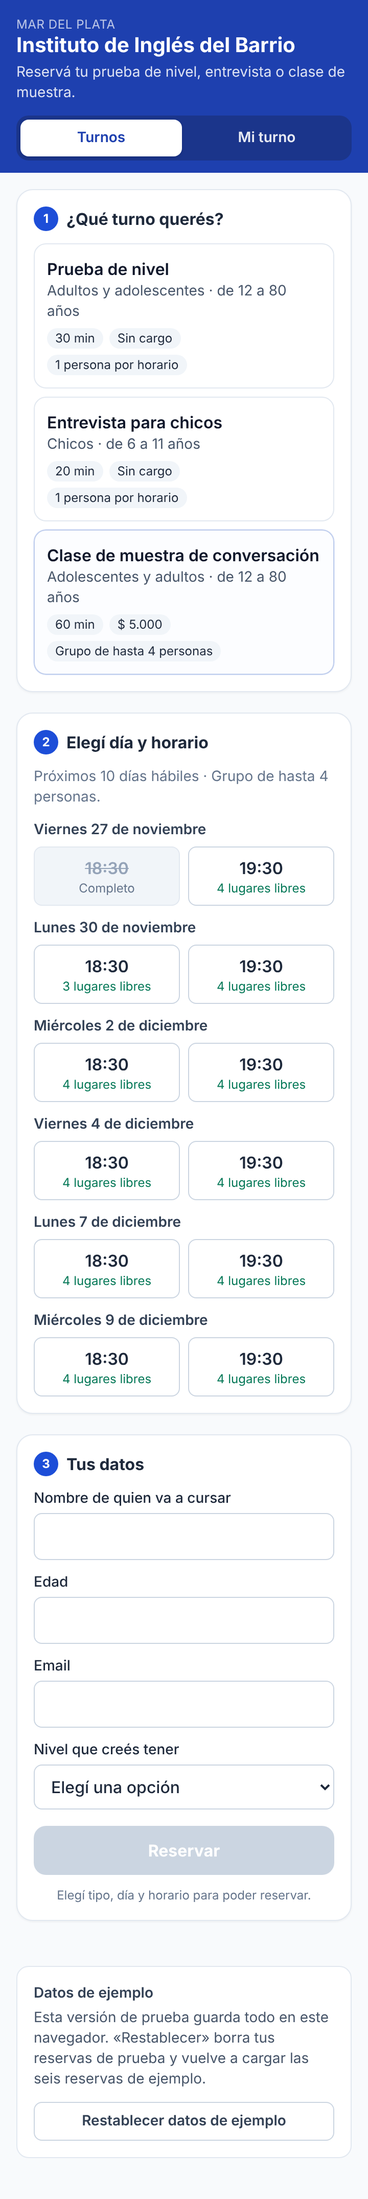
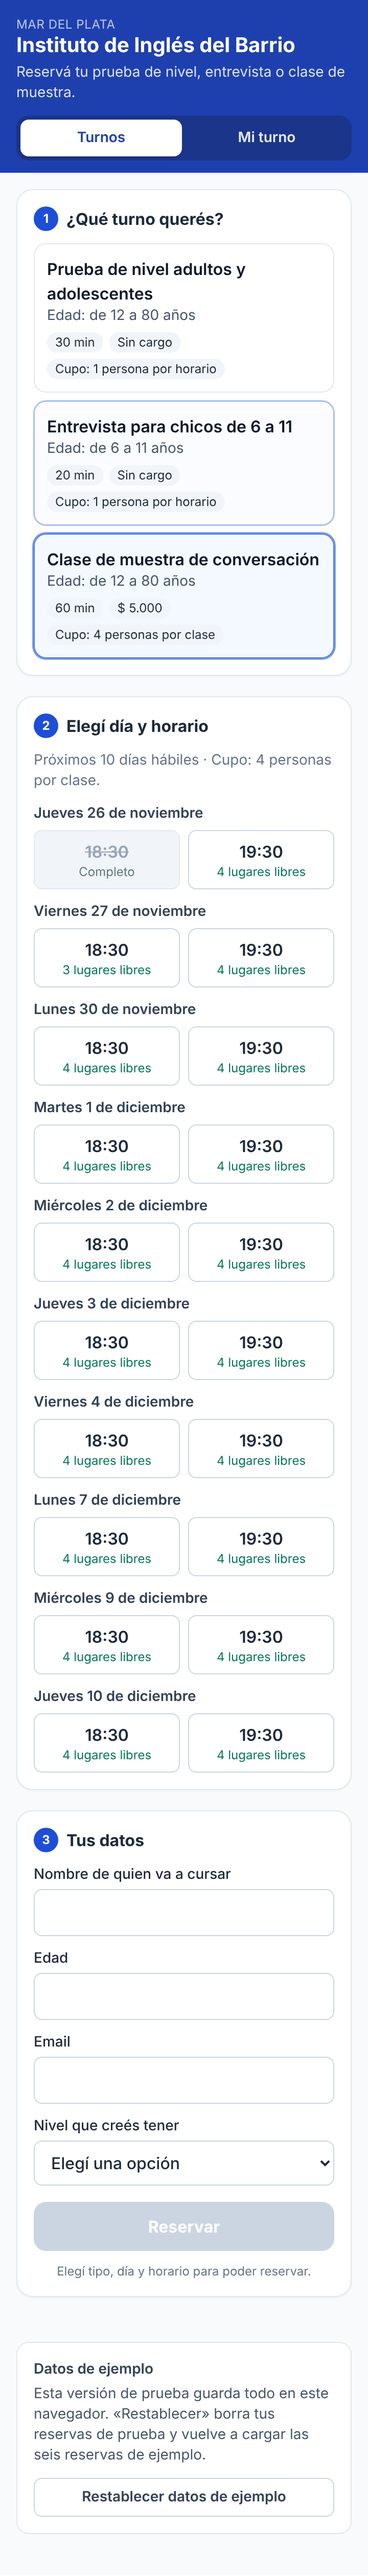
Ajustes al brief: nombres exactos de los tipos, 10 días para todos, datos completos en la clave propia
- Tipos con el nombre exacto del brief y cupo visible en cada tarjeta
- La clase de muestra tiene franjas los 10 días hábiles
- Etiqueta «1 lugar libre» también para prueba de nivel y entrevista
- La clave propia guarda tipos, franjas y reservas
- README: prueba guiada actualizada (43/43) y tabla de criterios de aceptación

Claude-Session: https://claude.ai/code/session_014txXNc892jqkesCsr7BeZq

diff --git a/src/lib/almacenamiento.js b/src/lib/almacenamiento.js
@@ -3,6 +3,7 @@
 // (no se usa localStorage.clear()).
 import { STORAGE_KEY, RESERVAS_EJEMPLO, TIPOS, INSTITUTO, DIAS_HABILES_A_MOSTRAR, FERIADOS } from '../data/config.js'
 import { hoyEnZona, proximosDiasHabiles, diaSemana } from './fechas.js'
+import { franjasDelTipo } from './disponibilidad.js'
 
 const VERSION = 1
 
@@ -16,6 +17,20 @@ export function puedeGuardar() {
   } catch {
     return false
   }
+}
+
+// Foto de los tipos y de las franjas de los próximos 10 días hábiles con sus
+// lugares libres. Se guarda junto con las reservas para que todo el juego de
+// datos se vea en localStorage. La fuente de verdad de tipos y horarios sigue
+// siendo src/data/config.js: esta foto se recalcula cada vez que se abre la app.
+export function fotoCatalogo(reservas, ahora = new Date()) {
+  const hoy = hoyEnZona(INSTITUTO.zonaHoraria, ahora)
+  const franjas = TIPOS.flatMap((tipo) =>
+    franjasDelTipo(tipo, reservas, { hoy, cantidadDias: DIAS_HABILES_A_MOSTRAR, feriados: FERIADOS }).flatMap((d) =>
+      d.franjas.map((f) => ({ tipoId: tipo.id, fecha: f.fecha, hora: f.hora, capacidad: f.capacidad, libres: f.libres })),
+    ),
+  )
+  return { tipos: TIPOS, franjas }
 }
 
 // Convierte las reservas de ejemplo (con `dia` relativo) en reservas con fecha real.
@@ -34,7 +49,7 @@ export function construirEjemplo(ahora = new Date()) {
       ejemplo: true,
     }
   })
-  return { version: VERSION, reservas, cargadoEn: ahora.toISOString() }
+  return { version: VERSION, ...fotoCatalogo(reservas, ahora), reservas, cargadoEn: ahora.toISOString() }
 }
 
 // Lee los datos. Si no hay nada (primera vez) o están rotos, carga el ejemplo.
@@ -43,7 +58,11 @@ export function cargar() {
     const crudo = window.localStorage.getItem(STORAGE_KEY)
     if (crudo) {
       const datos = JSON.parse(crudo)
-      if (datos && datos.version === VERSION && Array.isArray(datos.reservas)) return datos
+      if (datos && datos.version === VERSION && Array.isArray(datos.reservas)) {
+        const actualizados = { ...datos, ...fotoCatalogo(datos.reservas) }
+        guardar(actualizados)
+        return actualizados
+      }
     }
   } catch {
     // sin acceso o JSON roto: seguimos con el ejemplo
@@ -56,7 +75,7 @@ export function cargar() {
 // Devuelve true si se pudo guardar.
 export function guardar(datos) {
   try {
-    window.localStorage.setItem(STORAGE_KEY, JSON.stringify(datos))
+    window.localStorage.setItem(STORAGE_KEY, JSON.stringify({ ...datos, ...fotoCatalogo(datos.reservas) }))
     return true
   } catch {
     return false

diff --git a/src/data/config.js b/src/data/config.js
@@ -51,8 +51,7 @@ export const NIVELES = ['Nunca estudié', 'Básico', 'Intermedio', 'Avanzado']
 export const TIPOS = [
   {
     id: 'prueba-nivel',
-    nombre: 'Prueba de nivel',
-    destinatarios: 'Adultos y adolescentes',
+    nombre: 'Prueba de nivel adultos y adolescentes',
     descripcion: 'Una charla corta y un ejercicio escrito para saber en qué curso empezar.',
     duracionMin: 30,
     precio: 0,
@@ -64,8 +63,7 @@ export const TIPOS = [
   },
   {
     id: 'entrevista-chicos',
-    nombre: 'Entrevista para chicos',
-    destinatarios: 'Chicos',
+    nombre: 'Entrevista para chicos de 6 a 11',
     descripcion: 'Encuentro con la familia y un juego en inglés para ubicar al chico en su grupo.',
     duracionMin: 20,
     precio: 0,
@@ -78,14 +76,13 @@ export const TIPOS = [
   {
     id: 'clase-muestra',
     nombre: 'Clase de muestra de conversación',
-    destinatarios: 'Adolescentes y adultos',
     descripcion: 'Una clase grupal real de conversación para conocer el método y al profe.',
     duracionMin: 60,
     precio: 5000,
     unidad: 'grupo',
     cupo: 4,
     edad: { min: 12, max: 80 },
-    diasSemana: [1, 3, 5],
+    diasSemana: [1, 2, 3, 4, 5],
     horarios: ['18:30', '19:30'],
   },
 ]
@@ -94,8 +91,8 @@ export const TIPOS = [
 //  RESERVAS DE EJEMPLO
 //  Se cargan la primera vez que se abre la app y cada vez que se
 //  toca «Restablecer datos de ejemplo».
-//  - dia: posición dentro de las franjas del TIPO (0 = primer día
-//    en que ese tipo tiene franjas). Así siempre caen en fechas futuras.
+//  - dia: posición dentro de los próximos días hábiles en que ese TIPO
+//    tiene franjas (0 = el primero). Así siempre caen en fechas futuras.
 //  - hora: tiene que ser uno de los `horarios` del tipo.
 //  Contenido: una clase de muestra COMPLETA (4 de 4), una franja de
 //  prueba de nivel ya tomada y otra clase de muestra con 1 de 4.

diff --git a/src/components/PantallaTurnos.jsx b/src/components/PantallaTurnos.jsx
@@ -172,7 +172,7 @@ export default function PantallaTurnos({ reservas, onReservar, irAMiTurno, almac
                 className={`rounded-xl border p-3 text-left transition ${activo ? 'border-marca-600 bg-marca-50 ring-2 ring-marca-500' : 'border-slate-200 hover:border-marca-500'}`}
               >
                 <span className="block font-semibold text-slate-900">{t.nombre}</span>
-                <span className="block text-sm text-slate-600">{t.destinatarios} · de {t.edad.min} a {t.edad.max} años</span>
+                <span className="block text-sm text-slate-600">Edad: de {t.edad.min} a {t.edad.max} años</span>
                 <span className="mt-1.5 flex flex-wrap gap-1.5 text-xs">
                   <span className="rounded-full bg-slate-100 px-2 py-0.5">{t.duracionMin} min</span>
                   <span className="rounded-full bg-slate-100 px-2 py-0.5">{precioTexto(t.precio)}</span>

diff --git a/src/lib/formato.js b/src/lib/formato.js
@@ -6,7 +6,7 @@ export function precioTexto(precio) {
 }
 
 export function capacidadTexto(tipo) {
-  return tipo.unidad === 'persona' ? '1 persona por horario' : `Grupo de hasta ${tipo.cupo} personas`
+  return tipo.unidad === 'persona' ? 'Cupo: 1 persona por horario' : `Cupo: ${tipo.cupo} personas por clase`
 }
 
 export function horarioTexto(reserva, tipo) {

diff --git a/src/lib/disponibilidad.js b/src/lib/disponibilidad.js
@@ -44,6 +44,5 @@ export function hayFranjasLibres(dias) {
 
 export function etiquetaLibres(franja, tipo) {
   if (franja.completo) return 'Completo'
-  if (tipo.unidad === 'persona') return 'Libre'
   return franja.libres === 1 ? '1 lugar libre' : `${franja.libres} lugares libres`
 }

diff --git a/README.md b/README.md
@@ -23,7 +23,7 @@ npm run preview    # sirve dist/ en http://localhost:4173
 
 ### Importar en Lovable
 
-Lovable trabaja con proyectos React + Vite + Tailwind como este. Subí la carpeta a un repositorio de GitHub y conectalo desde Lovable (*Settings → GitHub*), o pegá los archivos de `src/` en un proyecto Lovable nuevo. No hay dependencias además de React y Tailwind.
+La entrega es por GitHub (el brief acepta GitHub o Lovable). El proyecto usa el mismo stack que Lovable (React + Vite + Tailwind), sin otras dependencias, así que se puede pasar a un proyecto de Lovable copiando `src/`, `index.html` y la configuración de Tailwind.
 
 ## URL de previsualización
 
@@ -87,9 +87,9 @@ Valores actuales:
 
 | Tipo | Duración | Precio | Capacidad por franja | Edad | Días | Horarios |
 |---|---|---|---|---|---|---|
-| Prueba de nivel (adultos y adolescentes) | 30 min | Sin cargo | 1 persona | 12–80 | lun a vie | 9:00, 9:30, 10:00, 17:00, 17:30, 18:00 |
-| Entrevista para chicos | 20 min | Sin cargo | 1 persona | 6–11 | lun a vie | 16:00, 16:30, 17:00 |
-| Clase de muestra de conversación | 60 min | $ 5.000 | grupo de 4 | 12–80 | lun, mié, vie | 18:30, 19:30 |
+| Prueba de nivel adultos y adolescentes | 30 min | Sin cargo | 1 persona | 12–80 | lun a vie | 9:00, 9:30, 10:00, 17:00, 17:30, 18:00 |
+| Entrevista para chicos de 6 a 11 | 20 min | Sin cargo | 1 persona | 6–11 | lun a vie | 16:00, 16:30, 17:00 |
+| Clase de muestra de conversación | 60 min | $ 5.000 | grupo de 4 | 12–80 | lun a vie | 18:30, 19:30 |
 
 > Si cambiás un `cupo` o un horario, las reservas ya guardadas en el navegador siguen ahí. Para empezar de cero tocá «Restablecer datos de ejemplo».
 
@@ -106,9 +106,9 @@ Las seis reservas de ejemplo:
 
 | Código | Tipo | Día | Hora | Qué muestra |
 |---|---|---|---|---|
-| K7QM4P | Prueba de nivel | 1.er día | 09:00 | franja de prueba de nivel **ya tomada** |
-| HT3WZ8, R9DXA2, BN5UCE, PV2LJ6 | Clase de muestra | 1.er día de clase | 18:30 | clase **completa** (4 de 4) |
-| MF8YS3 | Clase de muestra | 2.º día de clase | 18:30 | clase con **3 lugares libres** |
+| K7QM4P | Prueba de nivel | 1.er día hábil | 09:00 | franja de prueba de nivel **ya tomada** |
+| HT3WZ8, R9DXA2, BN5UCE, PV2LJ6 | Clase de muestra | 1.er día hábil | 18:30 | clase **completa** (4 de 4) |
+| MF8YS3 | Clase de muestra | 2.º día hábil | 18:30 | clase con **3 lugares libres** |
 
 Para reemplazarlas: editá la lista (respetá que `hora` sea uno de los `horarios` del tipo y que el `codigo` sea único, 6 caracteres) y después tocá «Restablecer datos de ejemplo» en la app, o borrá la clave en las herramientas del navegador.
 
@@ -125,7 +125,9 @@ Se pierden las reservas de prueba que hayas hecho en ese navegador.
 ## Almacenamiento: clave propia
 
 - La app usa **una sola clave**: `kodarvia.instituto-ingles.turnos.v1` (constante `STORAGE_KEY`).
-- Guarda ahí un JSON `{ version, reservas, cargadoEn }`.
+- Guarda ahí un JSON `{ version, tipos, franjas, reservas, cargadoEn }`:
+  - `reservas`: las reservas (es lo único que la app modifica).
+  - `tipos` y `franjas`: foto de los 3 tipos de turno y de las franjas de los próximos 10 días hábiles con su capacidad y lugares libres. Se vuelve a calcular cada vez que se abre la app o se guarda algo, así siempre coincide con `src/data/config.js` (que es la fuente de verdad) y con las reservas. Sirve para ver el juego de datos completo desde las herramientas del navegador y como formato de referencia para el backend.
 - **No lee, no borra ni pisa claves de otras aplicaciones.** Nunca usa `localStorage.clear()`. Esto está verificado en la prueba manual (una clave `otra-app` sobrevive al restablecer).
 - Para comprobar si el navegador deja guardar, escribe y borra al instante `kodarvia.instituto-ingles.turnos.v1.__prueba`.
 - Si el navegador **no deja guardar** (modo incógnito estricto, almacenamiento bloqueado o lleno), aparece arriba un aviso amarillo: se puede reservar igual, pero el turno se pierde al recargar, y se pide anotar el código.
@@ -148,7 +150,7 @@ Ejemplo real descargado en la prueba guiada (entrevista del jueves 26/11/2026 a 
 ```
 DTSTART;TZID=America/Argentina/Buenos_Aires:20261126T160000
 DTEND;TZID=America/Argentina/Buenos_Aires:20261126T162000
-SUMMARY:Entrevista para chicos – Instituto de Inglés del Barrio
+SUMMARY:Entrevista para chicos de 6 a 11 – Instituto de Inglés del Barrio
 ```
 
 ## Compartir por WhatsApp
@@ -169,7 +171,7 @@ Abre `https://wa.me/?text=…` con un texto armado en `src/lib/formato.js`: tipo
 
 ```js
 {
-  codigo: 'QEWX3Q',            // 6 caracteres, sin 0/O/1/I/L
+  codigo: 'Y5AACE',            // 6 caracteres, sin 0/O/1/I/L
   tipoId: 'entrevista-chicos',
   fecha: '2026-11-26', hora: '16:00',
   nombre: 'Valentina Ruiz', edad: 9, email: 'familia.ruiz@ejemplo.com', nivel: 'Básico',
@@ -184,7 +186,7 @@ Cancelar no borra la reserva: la marca `cancelada` (así el código sigue mostra
 
 Cada propuesta (tipo de turno) tiene **su propia unidad de capacidad**:
 
-- **Prueba de nivel** y **entrevista**: unidad `persona` → capacidad **1 por franja**. Una reserva y la franja queda «Completo». Se muestra «Libre» o «Completo».
+- **Prueba de nivel** y **entrevista**: unidad `persona` → capacidad **1 por franja**. Una reserva y la franja queda «Completo». Se muestra «1 lugar libre» o «Completo».
 - **Clase de muestra**: unidad `grupo` → capacidad = `cupo` (4). Se muestra «N lugares libres», «1 lugar libre» o «Completo».
 
 ```
@@ -209,46 +211,60 @@ Hecha el **25/11/2026** sobre la versión de producción (`npm run build` + `npm
 
 | # | Paso | Datos | Resultado observado |
 |---|---|---|---|
-| 1 | Abrir por primera vez | — | 6 reservas cargadas. Clase de muestra vie 27/11 18:30 «Completo» y deshabilitada; lun 30/11 18:30 «3 lugares libres»; prueba de nivel jue 26/11 09:00 «Completo». ✅ |
-| 2 | Elegir «Entrevista para chicos» | — | Jue 26/11 16:00 muestra «Libre». ✅ |
-| 3 | Elegir esa franja y completar | Valentina Ruiz · 9 · familia.ruiz@ejemplo.com · Básico | Resumen «Entrevista para chicos · Jueves 26 de noviembre a las 16:00». ✅ |
-| 4 | **Cambiar el tipo** a Prueba de nivel | edad 9 | La franja se borra, aviso «elegí de nuevo el día y el horario» + «Revisá la edad», error «Con 9 años no corresponde «Prueba de nivel» (es para 12 a 80 años)», «Reservar» deshabilitado. ✅ |
+| 1 | Abrir por primera vez | — | En la clave propia: 3 tipos con su nombre exacto, 110 franjas de 10 días hábiles (60 de prueba de nivel, 30 de entrevista, 20 de clase) y 6 reservas. Cada tipo lista los 10 días. Clase de muestra jue 26/11 18:30 «Completo» y deshabilitada; vie 27/11 18:30 «3 lugares libres»; prueba de nivel jue 26/11 09:00 «Completo». ✅ |
+| 2 | Elegir «Entrevista para chicos de 6 a 11» | — | Jue 26/11 16:00 muestra «1 lugar libre». ✅ |
+| 3 | Elegir esa franja y completar | Valentina Ruiz · 9 · familia.ruiz@ejemplo.com · Básico | Resumen «Entrevista para chicos de 6 a 11 · Jueves 26 de noviembre a las 16:00». ✅ |
+| 4 | **Cambiar el tipo** a Prueba de nivel | edad 9 | La franja se borra, aviso «elegí de nuevo el día y el horario» + «Revisá la edad», error «Con 9 años no corresponde «Prueba de nivel adultos y adolescentes» (es para 12 a 80 años)», «Reservar» deshabilitado. ✅ |
 | 5 | Volver a Entrevista | edad 9 | Edad válida otra vez; sigue sin dejar reservar hasta elegir franja. ✅ |
 | 6 | Edad fuera del tipo | 12 con Entrevista | Aviso de rango 6–11 y «Reservar» deshabilitado. ✅ |
 | 7 | Edad fuera del rango general | 5 | «La edad tiene que estar entre 6 y 80 años.» ✅ |
 | 8 | Nombre y email inválidos | «Al» · familia@ejemplo | Errores «mínimo 3 letras» y «formato no es válido»; no se reserva. ✅ |
-| 9 | **Reservar la última (única) entrevista de la franja** | datos del paso 3 | Código `QEWX3Q`; se guardan 7 reservas en la clave propia. ✅ |
-| 10 | Volver a ver franjas | — | Entrevista jue 26/11 16:00 **«Completo»** y deshabilitada. La clase de muestra **distinta** lun 30/11 18:30 **conserva «3 lugares libres»** (y las demás clases siguen en 4). ✅ |
+| 9 | **Reservar la última (única) entrevista de la franja** | datos del paso 3 | Código `Y5AACE`; se guardan 7 reservas en la clave propia. ✅ |
+| 10 | Volver a ver franjas | — | Entrevista jue 26/11 16:00 **«Completo»** y deshabilitada. La clase de muestra **distinta** vie 27/11 18:30 **conserva «3 lugares libres»** (y las demás clases siguen en 4). ✅ |
 | 11 | Mi turno con código inexistente | ZZZZZZ | «No encontramos ningún turno con el código «ZZZZZZ»…». ✅ |
 | 12 | Mi turno con el código | « qew-x3q » (minúsculas, guion, espacios) | Encuentra el turno y muestra el detalle. ✅ |
-| 13 | Descargar `.ics` | — | `turno-QEWX3Q.ics`: DTSTART 20261126T160000, DTEND 20261126T162000 (20 min), zona America/Argentina/Buenos_Aires. ✅ |
+| 13 | Descargar `.ics` | — | `turno-Y5AACE.ics`: DTSTART 20261126T160000, DTEND 20261126T162000 (20 min), zona America/Argentina/Buenos_Aires. ✅ |
 | 14 | Compartir por WhatsApp | — | Link `https://wa.me/?text=…` con tipo, día, horario y código. ✅ |
 | 15 | Cancelar turno → confirmar | — | Estado «Cancelado» y mensaje «El lugar ya quedó libre». ✅ |
-| 16 | Volver a Turnos → Entrevista | — | Jue 26/11 16:00 vuelve a «Libre». ✅ |
+| 16 | Volver a Turnos → Entrevista | — | Jue 26/11 16:00 vuelve a «1 lugar libre». ✅ |
 | 17 | Restablecer datos de ejemplo | otra clave `otra-app` guardada antes | Vuelven las 6 reservas; `otra-app` sigue intacta. ✅ |
 | 18 | Sin franjas libres | se ocupan las 30 entrevistas de los 10 días | Mensaje «No quedan horarios libres en los próximos 10 días hábiles…». La clase de muestra sigue con franjas (no comparte contador). ✅ |
 | 19 | Navegador que no deja guardar | `setItem` bloqueado | Aviso «Tu navegador no deja guardar datos…» arriba. ✅ |
 | 20 | 360 px | todas las pantallas | Sin scroll horizontal en ninguna pantalla; sin errores en consola. ✅ |
 
-Resultado: **37 de 37 comprobaciones OK** en la corrida automatizada en navegador, y **12 de 12** pruebas de reglas con `npm test`. Capturas en `docs/capturas/`.
+Resultado: **43 de 43 comprobaciones OK** en la corrida automatizada en navegador, y **12 de 12** pruebas de reglas con `npm test`. Capturas en `docs/capturas/`.
 
 ### Verificación manual (para repetir a mano)
 
 1. Abrí la app en una ventana normal y achicá el navegador a 360 px (DevTools → modo dispositivo → 360 de ancho).
 2. Tocá «Restablecer datos de ejemplo» → «Sí, restablecer».
-3. **Clase de muestra**: el primer día con clase a las 18:30 dice «Completo» y no se puede tocar; el segundo día a las 18:30 dice «3 lugares libres».
+3. **Clase de muestra**: el primer día hábil a las 18:30 dice «Completo» y no se puede tocar; el segundo día a las 18:30 dice «3 lugares libres».
 4. **Prueba de nivel**: el primer día a las 09:00 dice «Completo».
-5. **Entrevista para chicos**: elegí el primer horario «Libre», completá nombre, edad 9, email y nivel.
+5. **Entrevista para chicos**: elegí el primer horario «1 lugar libre», completá nombre, edad 9, email y nivel.
 6. Cambiá a «Prueba de nivel»: tiene que desaparecer la franja elegida y aparecer el aviso de edad. Volvé a «Entrevista».
 7. Probá edad 12 (aviso, botón gris) y después 9. Probá nombre «Al» y email sin «.com» (errores al tocar Reservar).
 8. Corregí y tocá «Reservar». Anotá el código.
 9. «Reservar otro turno» → Entrevista: esa franja ahora dice «Completo». Clase de muestra: el segundo día 18:30 sigue con «3 lugares libres».
 10. «Mi turno»: buscá `ZZZZZZ` (aviso) y después tu código. Descargá el `.ics` y abrilo con un editor de texto o el calendario: revisá día, hora de inicio y fin.
 11. Tocá «Compartir por WhatsApp»: se abre WhatsApp con el texto.
-12. «Cancelar turno» → «Sí, cancelar turno». Volvé a Turnos → Entrevista: el horario está «Libre» otra vez.
+12. «Cancelar turno» → «Sí, cancelar turno». Volvé a Turnos → Entrevista: el horario está «1 lugar libre» otra vez.
 13. Abrí la app en una ventana de incógnito de Safari (o bloqueá el almacenamiento del sitio): tiene que aparecer el aviso amarillo.
 
 ---
+
+## Criterios de aceptación del brief
+
+| Criterio | Cómo se cumple | Verificado en |
+|---|---|---|
+| Prueba de nivel y entrevista: un turno por franja; la clase de muestra muestra sus lugares libres | `unidad: 'persona'` (capacidad 1) y `unidad: 'grupo'` con `cupo: 4`; etiquetas «1 lugar libre», «N lugares libres», «Completo» | pasos 1, 2, 10 |
+| Franja sin lugares aparece «Completo» y no se puede elegir | botón deshabilitado, tachado, con texto «Completo» | pasos 1, 10 |
+| Edad fuera del rango del tipo: aviso y no deja reservar | aviso al escribir la edad + botón «Reservar» deshabilitado | pasos 4, 6, 7 |
+| Al cancelar desde Mi turno el lugar vuelve a estar disponible | la reserva pasa a `cancelada` y deja de contar | pasos 15, 16 |
+| El .ics tiene fecha, hora y duración correctas | `DTSTART`/`DTEND` con zona de Argentina, fin = inicio + duración del tipo | paso 13 y `npm test` |
+| Las dos pantallas se usan bien a 360 px | sin scroll horizontal, una columna, botones grandes | paso 20 y `docs/capturas/` |
+| Prueba guiada: última entrevista de una franja → completa; otra clase grupal conserva su cupo; cambiar el tipo revalida edad y franja | ver tabla de la prueba guiada | pasos 4, 5, 9, 10 |
+| Datos sintéticos al abrir por primera vez | 3 tipos, franjas de 10 días hábiles y 6 reservas (una clase completa y una prueba de nivel tomada) | paso 1 |
+| Repositorio con README completo y URL de previsualización | este repositorio + GitHub Pages | sección «URL de previsualización» |
 
 ## Lo que queda para Kodarvia
 
